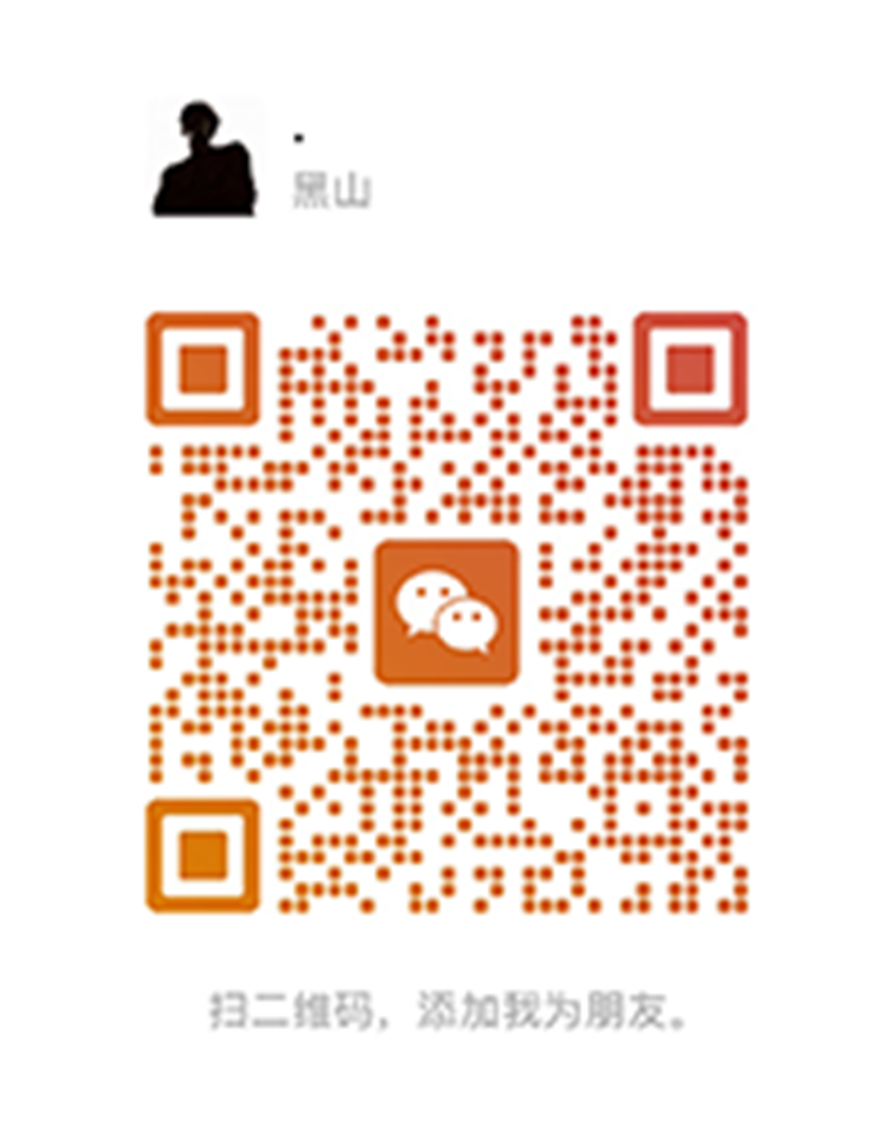
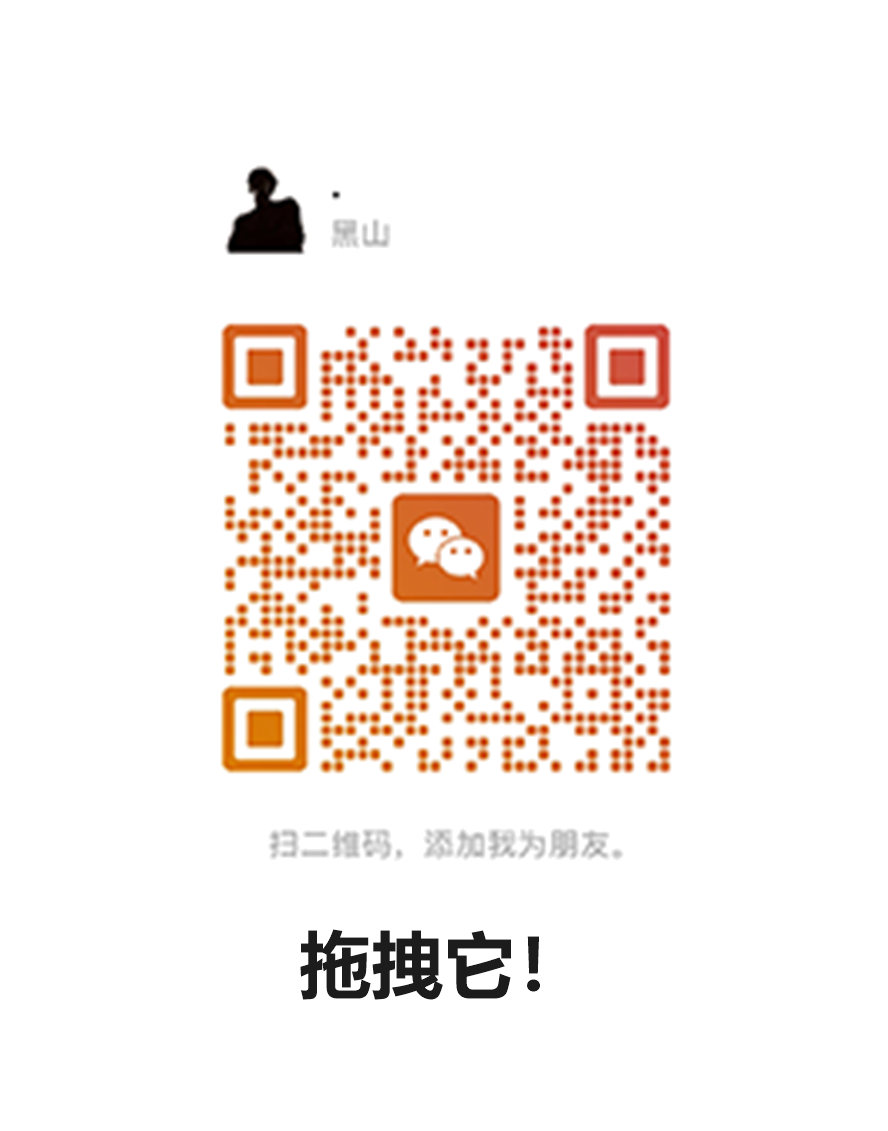
Make lanyard card drag home

Changed region(s): [[0.152, 0.0619, 0.8514, 0.9284]]

diff --git a/lanyard-scene.js b/lanyard-scene.js
@@ -71,6 +71,13 @@ function useSafeTexture(url, options = {}) {
     return texture;
 }
 
+function returnToFirstPage() {
+    window.requestAnimationFrame(() => {
+        document.body.classList.remove("smile-cursor");
+        window.scrollTo({ top: 0, behavior: "smooth" });
+    });
+}
+
 function Lanyard({
     position = [0, 0, 20],
     gravity = [0, -40, 0],
@@ -298,10 +305,15 @@ function Band({ maxSpeed = 50, minSpeed = 0, isMobile = false, cardUrl, textureU
                         onPointerOver: () => hover(true),
                         onPointerOut: () => hover(false),
                         onPointerUp: event => {
-                            event.target.releasePointerCapture(event.pointerId);
+                            const shouldReturnHome = !!dragged;
+                            try {
+                                event.target.releasePointerCapture(event.pointerId);
+                            } catch {}
                             drag(false);
+                            if (shouldReturnHome) returnToFirstPage();
                         },
                         onPointerDown: event => {
+                            event.stopPropagation();
                             event.target.setPointerCapture(event.pointerId);
                             const cardPosition = getFiniteTranslation(card.current);
                             if (cardPosition) drag(new THREE.Vector3().copy(event.point).sub(vec.copy(cardPosition)));
@@ -314,8 +326,8 @@ function Band({ maxSpeed = 50, minSpeed = 0, isMobile = false, cardUrl, textureU
                     ),
                     cardFaceTexture && h(
                         "mesh",
-                        { position: [0, 0.42, -0.025], renderOrder: 3 },
-                        h("planeGeometry", { args: [0.68, 0.87] }),
+                        { position: [0, 0.4, -0.025], renderOrder: 3 },
+                        h("planeGeometry", { args: [0.56, 0.72] }),
                         h("meshBasicMaterial", {
                             map: cardFaceTexture,
                             transparent: true,
